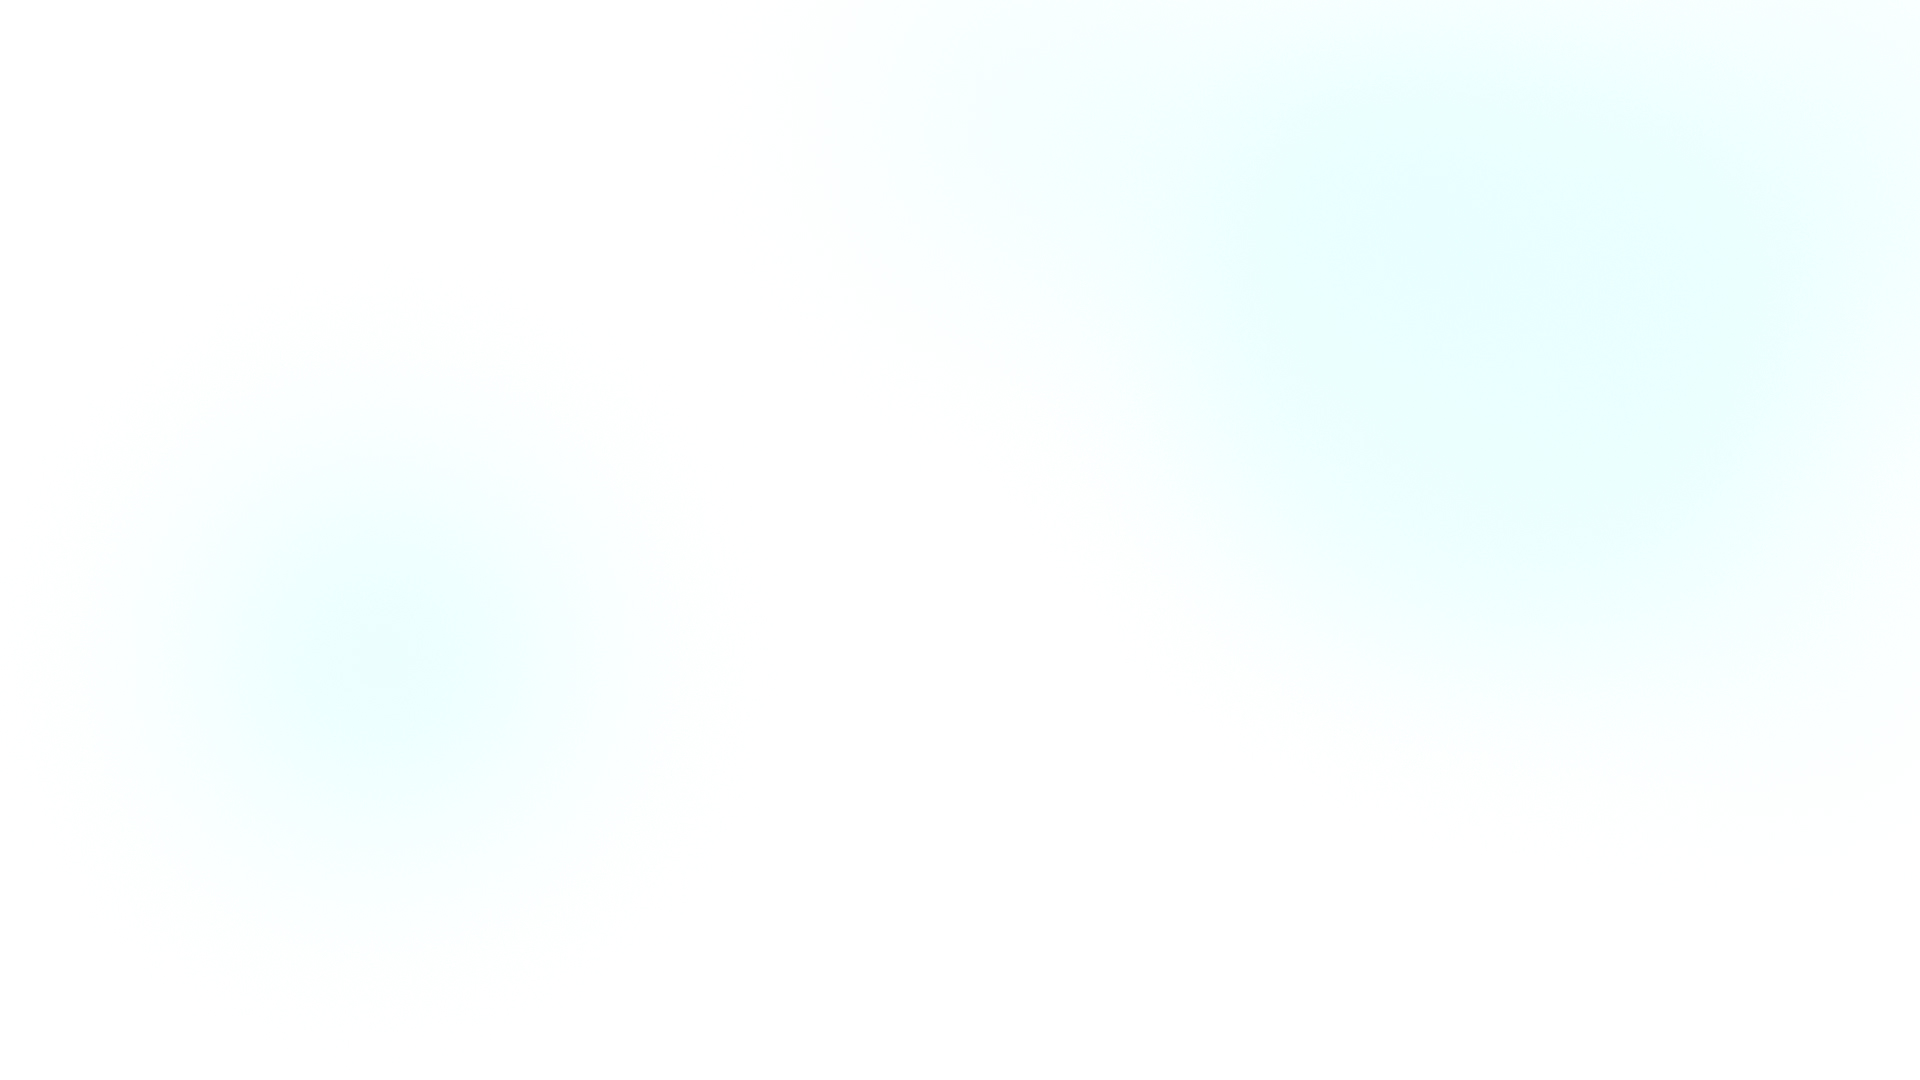
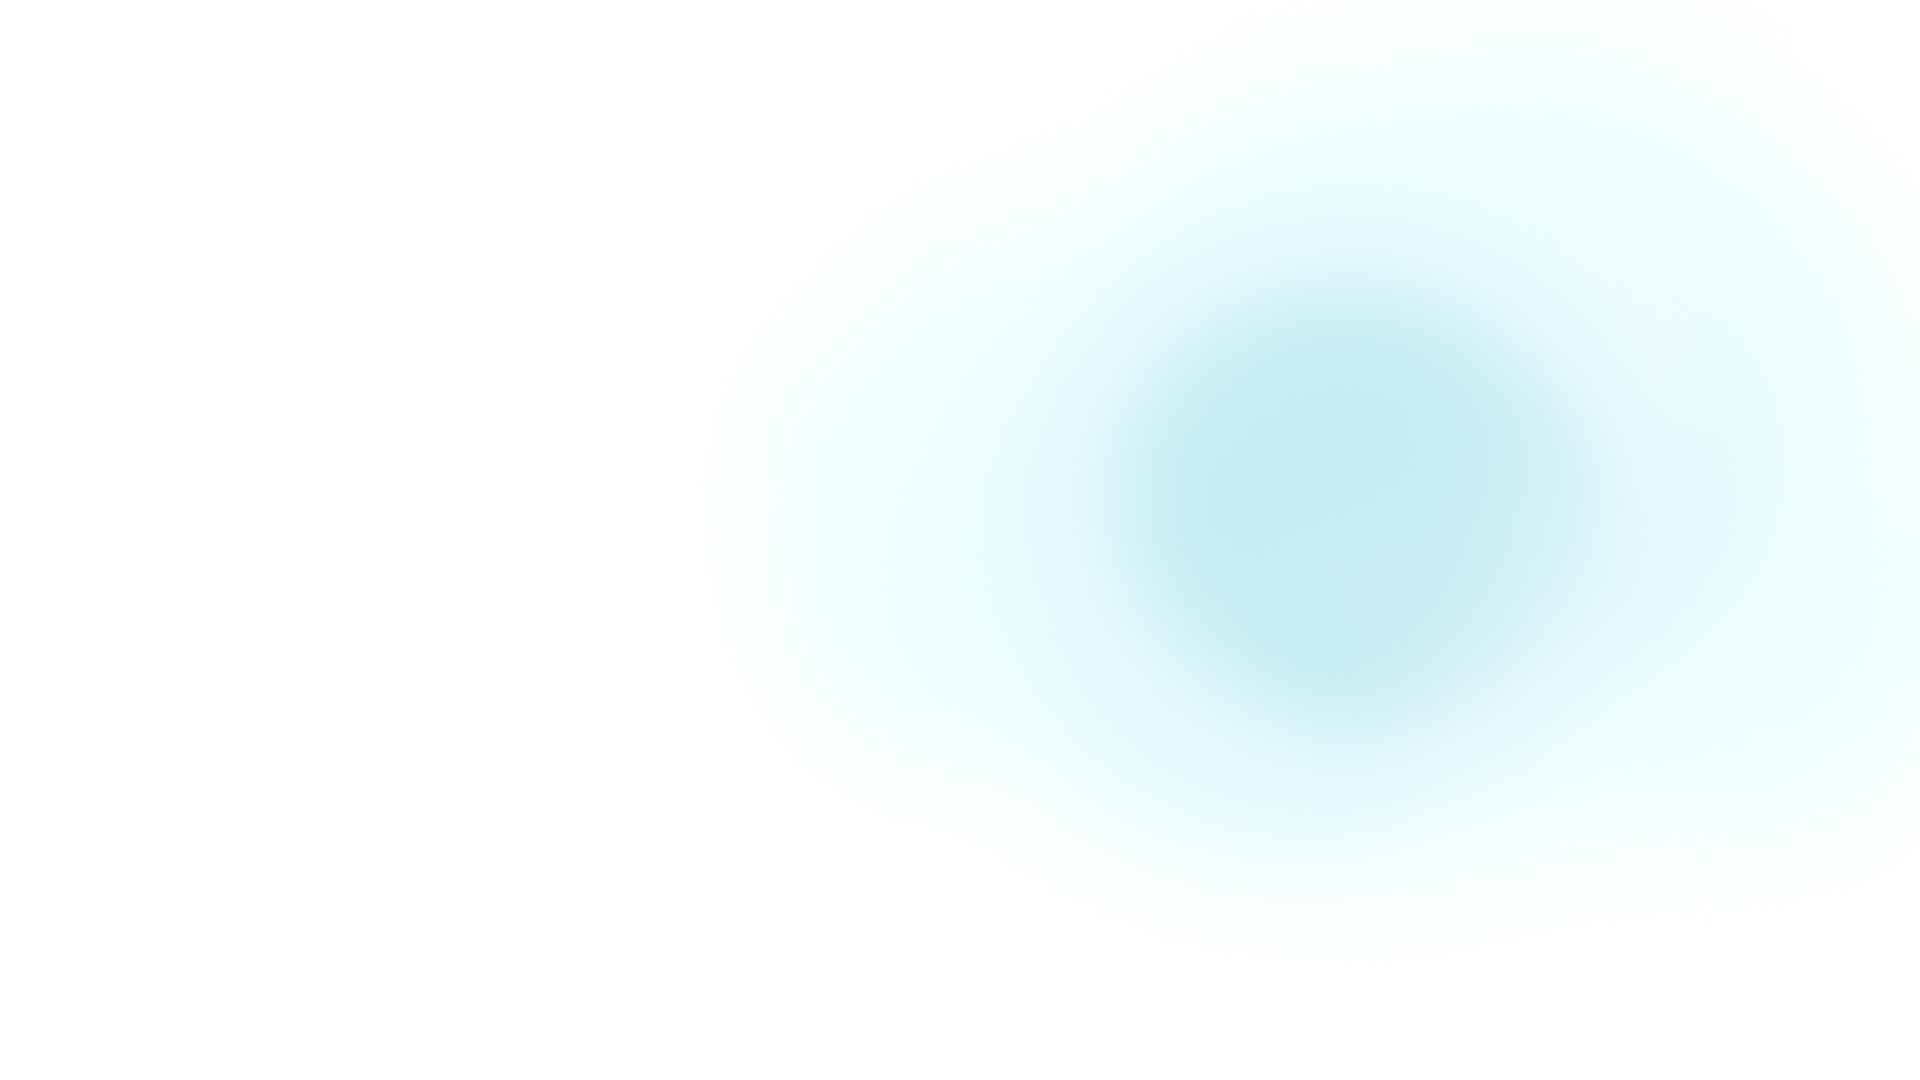
배경이미지 변경

Changed region(s): [[0.5312, 0.275, 0.8125, 0.7639]]

diff --git a/index.css b/index.css
@@ -250,7 +250,7 @@ article.introduce {
     width: 100%;
     padding:120px 0;
     margin-bottom: 120px;
-    background: url(img/bg4.jpg);
+    background: url(img/bg4.jpg) no-repeat left top/contain;
 }
 
 article.introduce .inner {
